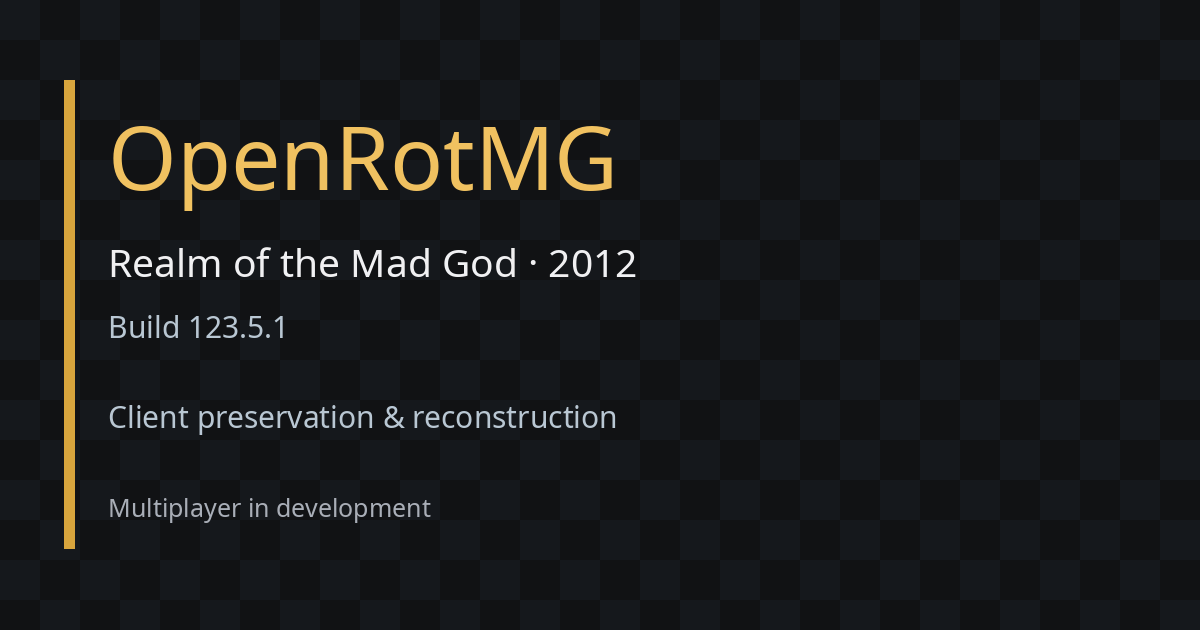
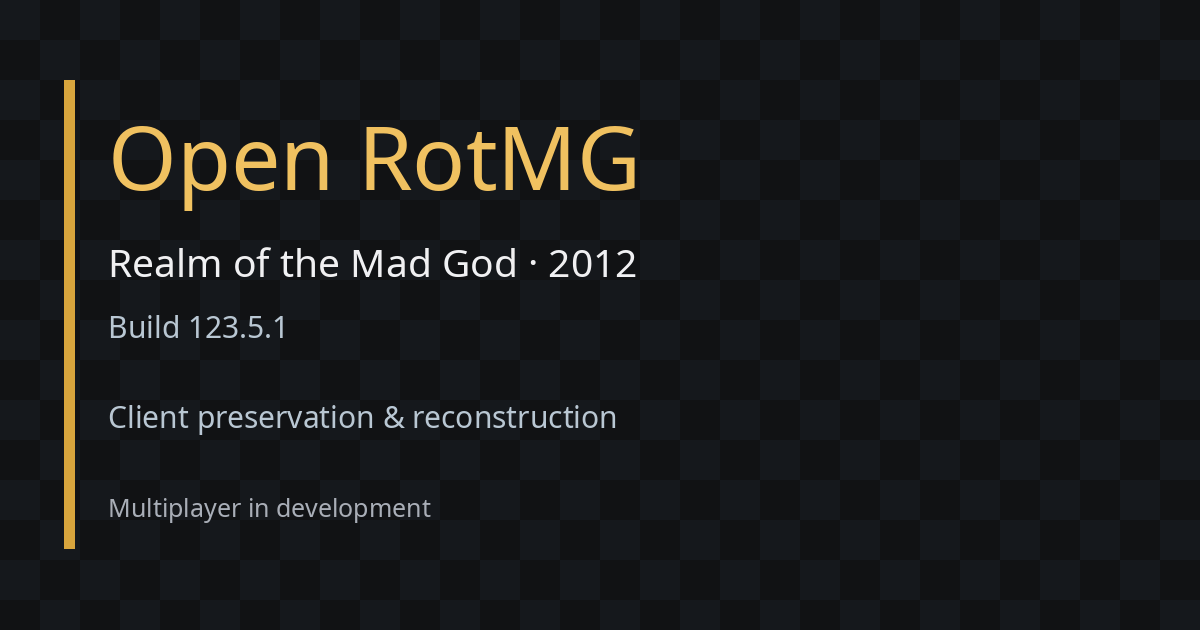
Use Open RotMG consistently in display text

Changed region(s): [[0.2775, 0.181, 0.555, 0.3016]]

diff --git a/public/index.html b/public/index.html
@@ -4,36 +4,36 @@
   <meta charset="utf-8">
   <meta name="viewport" content="width=device-width, initial-scale=1">
   <meta http-equiv="Content-Security-Policy" content="default-src 'self'; script-src 'self' 'unsafe-inline' 'wasm-unsafe-eval'; style-src 'self' 'unsafe-inline'; img-src 'self' data:; connect-src 'self'; worker-src 'self' blob:; media-src 'self' blob:; object-src 'none'; base-uri 'self'">
-  <title>OpenRotMG | 2012 Realm of the Mad God reconstruction</title>
-  <meta name="description" content="OpenRotMG is an open-source reconstruction of 2012 Realm of the Mad God, targeting build 123.5.1. Preview the preserved client in your browser.">
+  <title>Open RotMG | 2012 Realm of the Mad God reconstruction</title>
+  <meta name="description" content="Open RotMG is an open-source reconstruction of 2012 Realm of the Mad God, targeting build 123.5.1. Preview the preserved client in your browser.">
   <meta name="theme-color" content="#111214">
   <link rel="canonical" href="{{SITE_URL}}">
   <link rel="icon" href="{{BASE}}amulet-of-resurrection.png" type="image/png">
   <link rel="stylesheet" href="{{BASE}}style.css">
   <meta property="og:type" content="website">
-  <meta property="og:site_name" content="OpenRotMG">
-  <meta property="og:title" content="OpenRotMG | Realm of the Mad God, 2012">
+  <meta property="og:site_name" content="Open RotMG">
+  <meta property="og:title" content="Open RotMG | Realm of the Mad God, 2012">
   <meta property="og:description" content="Preserving build 123.5.1. The original-style Flash client runs through Ruffle; multiplayer is in development.">
   <meta property="og:url" content="{{SITE_URL}}">
   <meta property="og:image" content="{{SITE_URL}}social.png">
   <meta property="og:image:width" content="1200">
   <meta property="og:image:height" content="630">
-  <meta property="og:image:alt" content="OpenRotMG: Realm of the Mad God build 123.5.1, 2012 preservation project">
+  <meta property="og:image:alt" content="Open RotMG: Realm of the Mad God build 123.5.1, 2012 preservation project">
   <meta name="twitter:card" content="summary_large_image">
-  <meta name="twitter:title" content="OpenRotMG | Realm of the Mad God, 2012">
+  <meta name="twitter:title" content="Open RotMG | Realm of the Mad God, 2012">
   <meta name="twitter:description" content="Preserving build 123.5.1. Multiplayer is in development.">
   <meta name="twitter:image" content="{{SITE_URL}}social.png">
-  <script type="application/ld+json">{"@context":"https://schema.org","@type":"WebSite","name":"OpenRotMG","url":"{{SITE_URL}}","description":"An independent open-source reconstruction of Realm of the Mad God build 123.5.1 from 2012.","inLanguage":"en"}</script>
+  <script type="application/ld+json">{"@context":"https://schema.org","@type":"WebSite","name":"Open RotMG","url":"{{SITE_URL}}","description":"An independent open-source reconstruction of Realm of the Mad God build 123.5.1 from 2012.","inLanguage":"en"}</script>
   <script src="{{BASE}}runtime/ruffle.js" defer></script>
   <script src="{{BASE}}game.js" defer></script>
 </head>
 <body class="game-page">
   <main>
-    <h1 class="screen-reader">OpenRotMG client preview</h1>
+    <h1 class="screen-reader">Open RotMG client preview</h1>
     <div id="game" aria-label="Realm of the Mad God 123.5.1 client preview">
       <div id="startup" role="status">
         <img src="{{BASE}}amulet-of-resurrection.png" width="96" height="96" alt="">
-        <strong>OpenRotMG</strong>
+        <strong>Open RotMG</strong>
         <span>Loading client…</span>
         <a href="https://ruffle.rs/">Powered by Ruffle</a>
       </div>
@@ -42,7 +42,7 @@
     <p id="load-error" class="notice" role="alert" hidden></p>
   </main>
   <footer>
-    <p>OpenRotMG targets Realm of the Mad God build 123.5.1 (2012). <strong>Multiplayer is not online yet.</strong></p>
+    <p>Open RotMG targets Realm of the Mad God build 123.5.1 (2012). <strong>Multiplayer is not online yet.</strong></p>
     <nav aria-label="Project"><a href="{{BASE}}about/">About</a><a href="https://github.com/OpenRotMG">Source</a><a href="https://discord.gg/EwZWNzzYwP">Discord</a></nav>
   </footer>
 </body>

diff --git a/public/about/index.html b/public/about/index.html
@@ -4,15 +4,15 @@
   <meta charset="utf-8">
   <meta name="viewport" content="width=device-width, initial-scale=1">
   <meta http-equiv="Content-Security-Policy" content="default-src 'self'; style-src 'self'; img-src 'self'; object-src 'none'; base-uri 'self'">
-  <title>About OpenRotMG | Realm of the Mad God preservation</title>
+  <title>About Open RotMG | Realm of the Mad God preservation</title>
   <meta name="description" content="Open RotMG is an authentic recreation of Realm of the Mad God as it was in 2012. No custom content, no donations, all open source.">
   <meta name="theme-color" content="#111214">
   <link rel="canonical" href="{{SITE_URL}}about/">
   <link rel="icon" href="{{BASE}}amulet-of-resurrection.png" type="image/png">
   <link rel="stylesheet" href="{{BASE}}style.css">
   <meta property="og:type" content="website">
-  <meta property="og:site_name" content="OpenRotMG">
-  <meta property="og:title" content="About OpenRotMG">
+  <meta property="og:site_name" content="Open RotMG">
+  <meta property="og:title" content="About Open RotMG">
   <meta property="og:description" content="Open RotMG is an authentic recreation of Realm of the Mad God as it was in 2012. No custom content, no donations, all open source.">
   <meta property="og:url" content="{{SITE_URL}}about/">
   <meta property="og:image" content="{{SITE_URL}}social.png">
@@ -21,7 +21,7 @@
 <body class="about-page">
   <main>
     <a class="back" href="{{BASE}}">← Client preview</a>
-    <h1>About OpenRotMG</h1>
+    <h1>About Open RotMG</h1>
     <p>Open RotMG is an authentic recreation of Realm of the Mad God as it was in 2012. No custom content, no donations, all open source. Development is from passionate players.</p>
     <h2>What works today?</h2>
     <p>The client starts and renders its loading scene in a browser. <strong>The multiplayer server is not online yet.</strong> The loading error in the preview is expected while there is no account backend.</p>

diff --git a/public/404.html b/public/404.html
@@ -4,7 +4,7 @@
   <meta charset="utf-8">
   <meta name="viewport" content="width=device-width, initial-scale=1">
   <meta name="robots" content="noindex">
-  <title>Page not found | OpenRotMG</title>
+  <title>Page not found | Open RotMG</title>
   <link rel="stylesheet" href="{{BASE}}style.css">
 </head>
 <body class="about-page"><main><h1>Page not found</h1><p>This URL does not exist.</p><a href="{{BASE}}">Return to the client preview</a></main></body>

diff --git a/public/game.js b/public/game.js
@@ -22,5 +22,5 @@
   const notice = document.querySelector('#load-error');
   notice.textContent = 'Client failed to load: ' + error.message;
   notice.hidden = false;
-  console.error('OpenRotMG client startup failed', error);
+  console.error('Open RotMG client startup failed', error);
 });

diff --git a/README.md b/README.md
@@ -1,4 +1,4 @@
-## [OpenRotMG.org](https://openrotmg.org)
+## [Open RotMG](https://openrotmg.org)
 
 One-click play for the recreation of the classic bullethell game.
 
